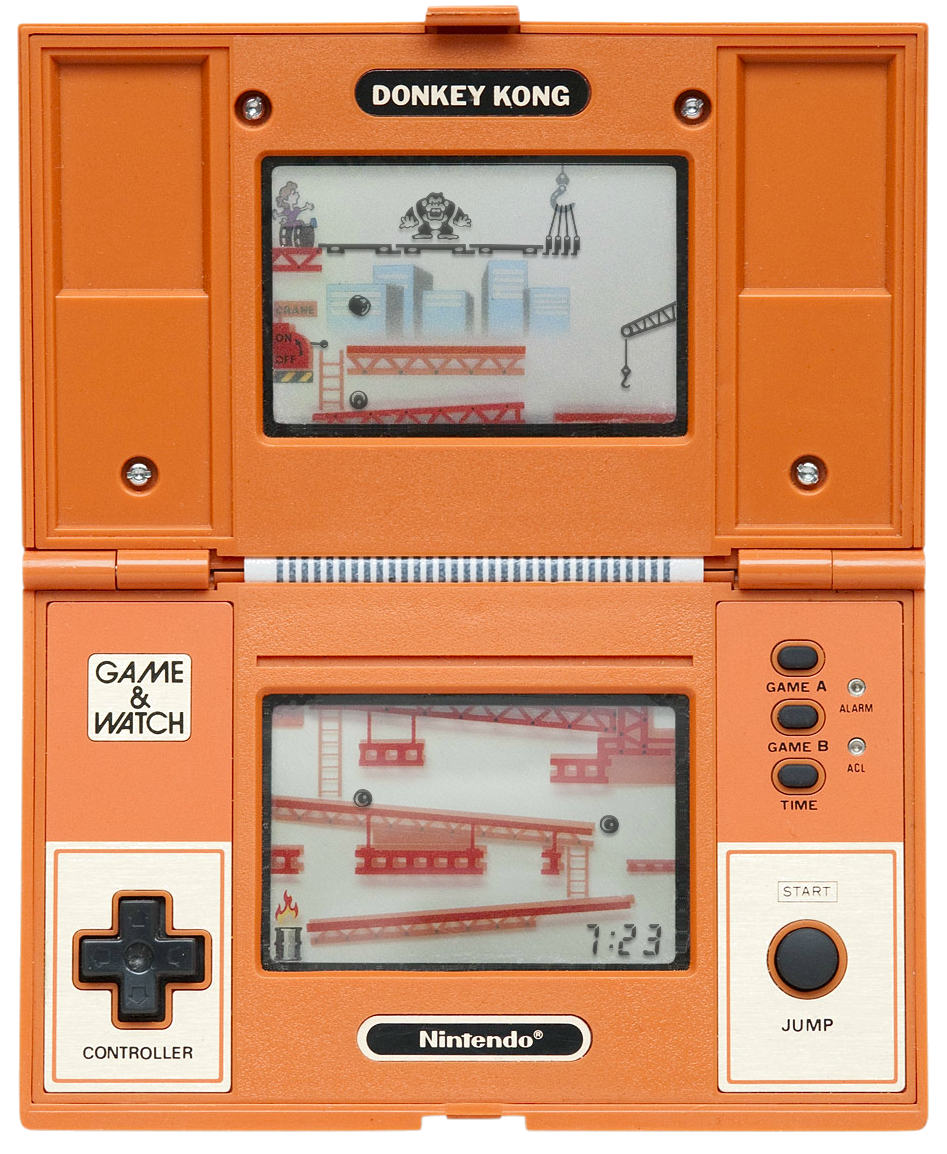
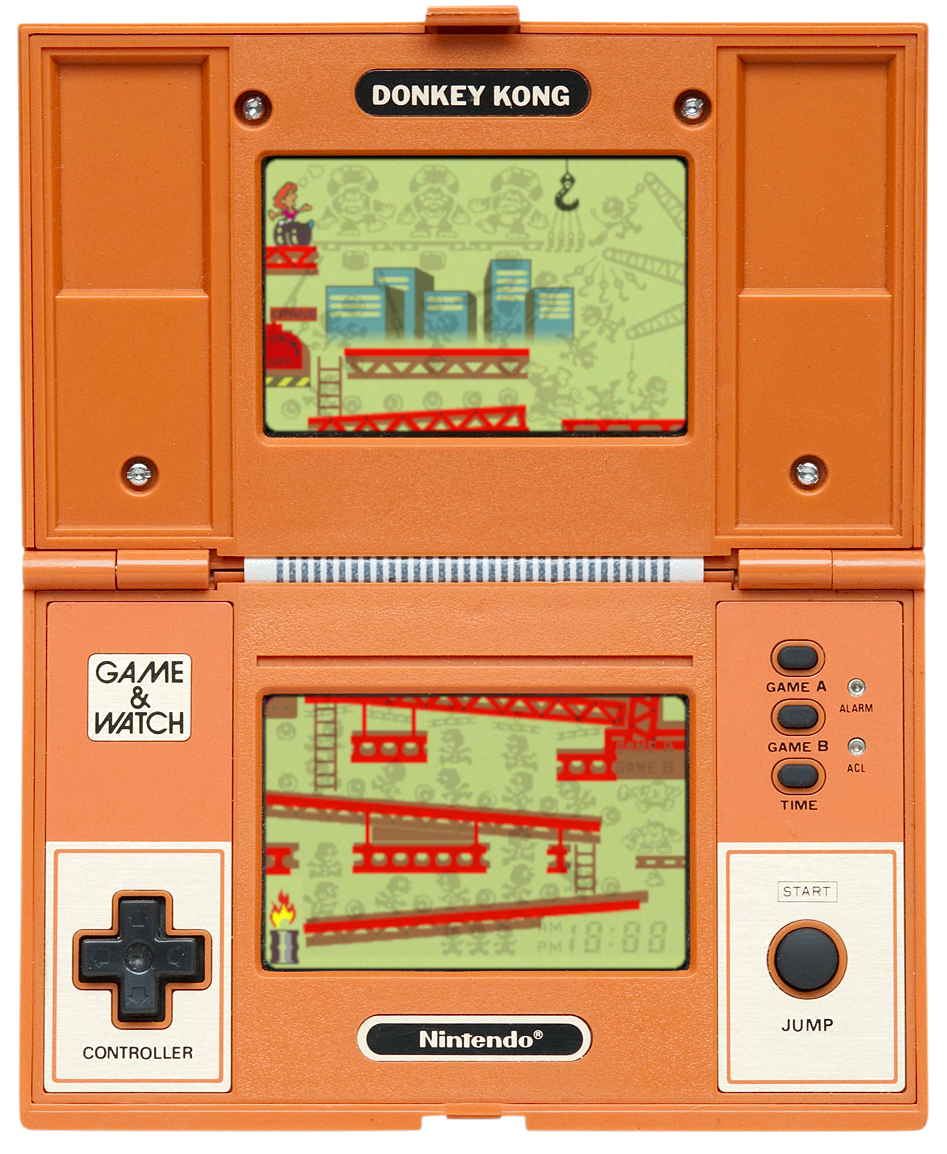
Merge console.png with background

Changed region(s): [[0.2756, 0.5927, 0.735, 0.8423], [0.2756, 0.1248, 0.735, 0.3744]]

diff --git a/js/game/game.js b/js/game/game.js
@@ -136,19 +136,19 @@ contextButton=canvas4.getContext("2d");
 //generer le background
 launchBG=function(){
 
-    image=new Image();
-    image.src="img/background.png";
-    context.drawImage(
-        image,
-        0,
-        0,
-        258,
-        393+DECALAGE,
-        0,
-        0,
-        258,
-        393+DECALAGE
-    );
+    // image=new Image();
+    // image.src="img/background.png";
+    // context.drawImage(
+    //     image,
+    //     0,
+    //     0,
+    //     258,
+    //     393+DECALAGE,
+    //     0,
+    //     0,
+    //     258,
+    //     393+DECALAGE
+    // );
 
 }
 
